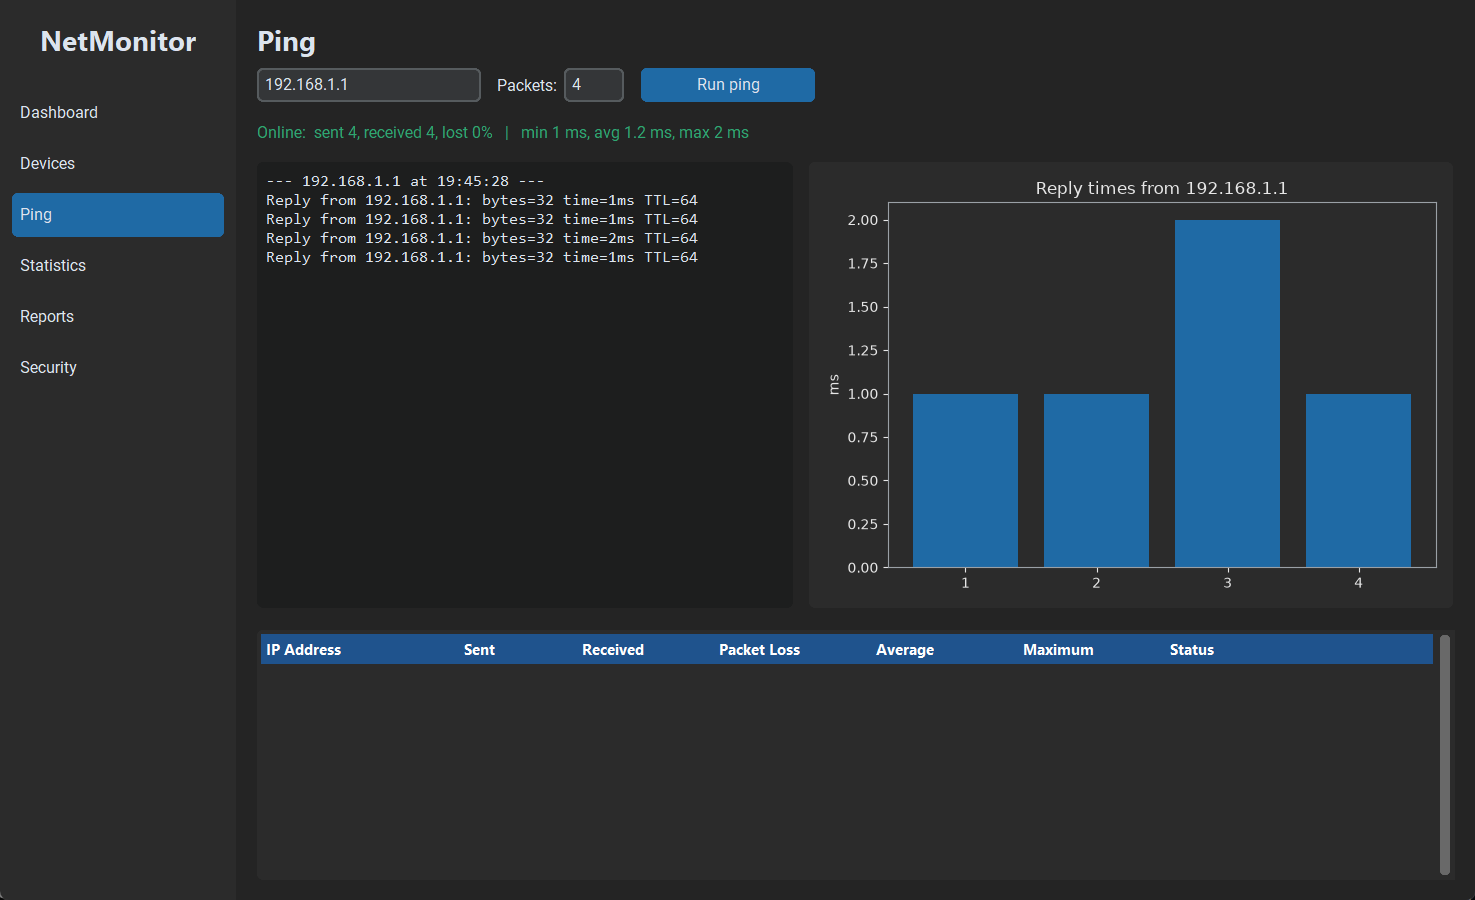
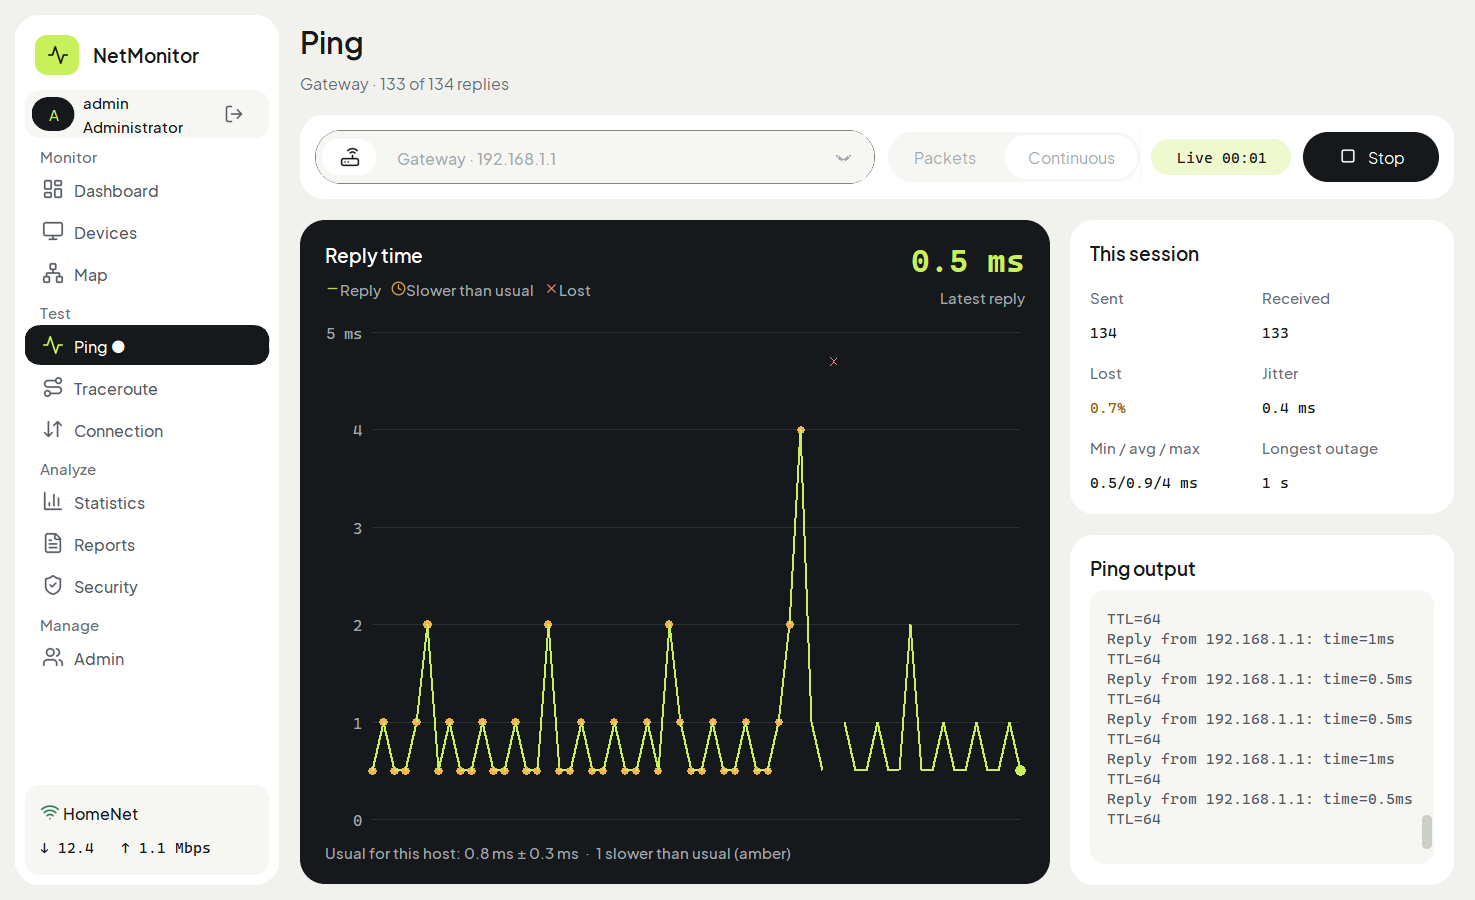
Update NetMonitor README and screenshots

diff --git a/README.md b/README.md
@@ -1,69 +1,71 @@
 # NetMonitor
 
-**Network Monitoring and Performance Analysis System**: a Windows desktop app that finds the devices on your local network, tests them with ping, tracks latency and packet loss, writes a report, and gives basic security advice.
+NetMonitor is a Windows desktop app for monitoring a local network. It discovers devices, measures latency and packet loss, tracks connection health, and exports reports. **Diagnose network** tests this PC, the router, internet access, and DNS, then explains where a problem starts and what to check next.
 
 Final project for CCS 234 (Communications and Networking), West Visayas State University, CICT.
 
-![Devices view after a network scan](Documentation/screenshots/devices_view.png)
+![Devices view with search, status filters, and actions for two selected devices using sample data](Documentation/screenshots/devices_view.png)
 
 ## Features
 
 | | Feature | What it does |
 |---|---|---|
-| 1 | **Network Discovery** | Detects the local IP, subnet mask, network range and gateway, then lists active devices with IP, hostname and MAC address. |
-| 2 | **Connectivity Testing** | Pings one or several devices and shows every reply time, min / average / max, and packet loss. |
-| 3 | **Network Statistics** | Per-device average latency, maximum latency, packet loss and jitter from all stored results, with a history chart. |
-| 4 | **Report Generator** | Writes a dated HTML or CSV report: devices, ping results, performance summary, recommendations. |
-| 5 | **Security Recommendations** | Flags weak connectivity, unreachable hosts, gateway problems and new devices, plus firewall and password reminders. |
+| 1 | **Network Discovery** | Finds devices on the local IPv4 network. Search by name, IP, MAC address or vendor, filter by status, and open a device’s details in the right-hand drawer. **Network details** shows the local IP, subnet mask, address range, and gateway. |
+| 2 | **Connectivity Testing** | Ping one device or a batch. **Continuous** mode charts reply times live and shows packet loss, jitter, and the longest outage. |
+| 3 | **Network Statistics** | See average and maximum latency, packet loss, and jitter across stored results. Select a device to see its history. |
+| 4 | **Report Generator** | Save a network snapshot as HTML, CSV, or PDF. Open saved reports from the **Reports** view. |
+| 5 | **Security Recommendations** | Review findings such as new devices, risky open ports, weak Wi-Fi security, and possible ARP anomalies. |
 
-Also included: a dashboard with a 0 to 100 network health score, and SQLite storage so history survives a restart.
+- **Dashboard** shows a network health score from 0 to 100 and runs the guided diagnosis.
+- **Map** shows device status and logical links to the gateway. Select a device to open its details.
+- **Traceroute** shows the routers between this PC and a target, with probe times and a verdict on where delay starts.
+- **Connection** shows Wi-Fi signal and nearby channels, live upload and download rates, and this PC’s data use for the day.
+- **Watch** periodically checks for devices joining or going offline and records uptime samples for known devices.
 
-![Ping view with reply times and a latency chart](Documentation/screenshots/ping_view.png)
+![Continuous ping with a live latency chart, session statistics, and reply output using sample data](Documentation/screenshots/ping_view.png)
 
 ## Download
 
-Get `NetMonitor-vX.Y.Z-windows.zip` from the [latest release](https://github.com/jstinbrey/network_monitor/releases/latest), unzip it, and run `NetMonitor\NetMonitor.exe`. It needs **Windows 10 or 11** and nothing else: Python is built in.
+Get `NetMonitor-vX.Y.Z-windows.zip` from the [latest release](https://github.com/jstinbrey/network_monitor/releases/latest), unzip it, and run `NetMonitor\NetMonitor.exe`. The release runs on **Windows 10 or 11** and includes Python.
 
-Windows SmartScreen may warn that the app is unrecognised, because it is not signed: choose *More info*, then *Run anyway*. The history and reports are kept in `%LOCALAPPDATA%\NetMonitor`, so a newer version finds them.
+The release is unsigned, so Windows SmartScreen may show a warning. The app keeps its database and reports in `%LOCALAPPDATA%\NetMonitor`, so a newer release can use the same files.
 
 ## Run from source
 
-Requires **Windows 10 or 11** and **Python 3.11+**. Administrator rights are not needed.
+Use **Windows 10 or 11** and **Python 3.13**, the version used to build the Windows release. You can run the app under a standard Windows account.
 
-**Easiest:** double-click `SourceCode\run.bat`. The first run creates a virtual environment and installs the packages, then opens the app.
+Double-click `SourceCode\run.bat` to create a virtual environment, install the packages, and open NetMonitor. Later launches reuse that environment.
 
-**Manual**, from PowerShell inside `SourceCode`:
+For manual setup, run these commands in PowerShell from the project root.
 
 ```powershell
+cd SourceCode
 python -m venv .venv
-.\.venv\Scripts\Activate.ps1
-pip install -r requirements.txt
-python main.py
+.\.venv\Scripts\python.exe -m pip install -r requirements.txt
+.\.venv\Scripts\python.exe main.py
 ```
 
-If PowerShell blocks `Activate.ps1`, run `Set-ExecutionPolicy -Scope CurrentUser RemoteSigned` once.
+The source build saves its database in `SourceCode/data/netmonitor.db` and generated reports in `SourceCode/output/`.
 
 ## Using it
 
-```mermaid
-flowchart LR
-    A[Scan network] --> B[Ping devices]
-    B --> C[View statistics]
-    C --> D[Generate report]
-    C --> E[Read security<br>recommendations]
-```
+NetMonitor opens as a guest. For your first scan, click **Admin sign in** in the sidebar and create the first administrator account. Use a password of at least eight characters that differs from the username. This account is managed inside NetMonitor.
 
-1. **Devices**: click *Scan network* (about 10 to 15 seconds).
-2. Select devices and click *Ping selected*, or double-click one device.
-3. **Statistics**: click *Refresh all* to ping every known device.
-4. **Reports**: click *Generate report*.
-5. **Security**: read the recommendations, most severe first.
+1. In **Devices**, click **Scan network**. Use the search and status filters to narrow the list.
+2. Click a device row to open its details, or select several checkboxes and click **Ping** in the selection bar. The drawer shows recent tests, uptime when available, and actions for **Ping**, **Continuous ping**, and **Traceroute**.
+3. In **Dashboard**, click **Diagnose network** to check the connection. In **Statistics**, click **Re-test devices** to ping every listed device and update the stored results.
+4. Review findings in **Security**. In **Reports**, select a format, click **Generate report**, then click **Open** when the file is ready.
 
-An administrator can also check a device for open ports from its panel (*Check ports*). Only check devices on a network you own or administer.
+| Access | Available actions |
+|---|---|
+| Guest or signed-in User | View stored devices and history, run ping, traceroute, and diagnosis, and generate reports. |
+| Administrator | All of the above, plus scan the network, check ports, rename devices, mark devices as known, and turn on **Watch**. Use **Admin** to manage accounts, set bandwidth limits and the watch interval, or clear the current network’s history. |
+
+If **Connection** asks for Location access, search Windows Settings for **Location** and allow desktop apps to access it to show Wi-Fi details.
 
 ## How it works
 
-The app has three layers. The interface never runs network code itself; it calls the services layer in a background thread, so the window stays responsive during a scan.
+The Tkinter and CustomTkinter interface calls the services layer. Network operations such as scans and ping run on background threads so the window stays responsive, and SQLite stores the results locally. NetMonitor identifies each network by its IPv4 range and gateway MAC address when available.
 
 ![Application architecture](Documentation/diagrams/architecture.png)
 
@@ -73,20 +75,20 @@ The app has three layers. The interface never runs network code itself; it calls
 | `core/discovery.py` | 1 | ICMP ping sweep, ARP table, reverse DNS |
 | `core/pinger.py` | 2 | ICMP echo request and reply, round-trip time, packet loss |
 | `core/statistics.py` | 3 | Latency, jitter, packet loss |
-| `core/report_builder.py` | 4 | Report output (HTML, CSV) |
+| `core/report_builder.py` | 4 | Report output (HTML, CSV, PDF) |
 | `core/advisor.py` | 5 | Connectivity and security rules |
 
-A device that ignores ping but still answers ARP is shown as **No ICMP reply (host up)** instead of offline. This is common for Windows PCs, whose firewall drops ping by default.
+**Up, no ping reply** means the device was seen through ARP, but it did not answer ICMP echo requests. Its firewall may block ping.
 
 ## Tests
 
-From `SourceCode`, with the virtual environment active:
+Run the tests from `SourceCode` after setup.
 
 ```powershell
-pytest -v
+.\.venv\Scripts\python.exe -m pytest -v
 ```
 
-The tests cover address and gateway detection, ping and ARP parsing, statistics, storage, report generation and the recommendation rules. They do not need a network connection.
+The suite covers address and gateway detection, ping and ARP parsing, statistics, storage, report generation, recommendation rules, and keyboard focus. It uses fixtures for network outputs.
 
 ## Project layout
 
@@ -99,8 +101,9 @@ SourceCode/
   netmonitor/
     core/           networking logic (one module per feature)
     gui/            window, views and widgets
-    services.py     the only module the interface calls
+    services.py     operations exposed to the interface
     store.py        SQLite storage
+    resources/      theme, fonts, icons and IEEE MAC vendor registry (oui.csv)
     templates/      HTML report template
   tests/            pytest suite
 Documentation/      progress report, diagrams, screenshots
@@ -108,26 +111,27 @@ Documentation/      progress report, diagrams, screenshots
 
 ## Making a release
 
-Versions are `0.<phase>.<fix>` while the build plan runs, and `1.0.0` is the submitted build. The number lives in one place, `VERSION` in `SourceCode/netmonitor/config.py`, and shows in the title bar.
+Versions are `0.<phase>.<fix>` during development, with `1.0.0` reserved for the submitted build. `VERSION` in `SourceCode/netmonitor/config.py` sets the version shown in the title bar.
 
-1. Set `VERSION` (for example `"0.7.0"`), commit, and push.
-2. Tag that commit and push the tag:
+1. Set `VERSION`, commit, and push.
+2. Replace `X.Y.Z` with the configured version, then tag the commit and push the tag.
 
    ```powershell
-   git tag -a v0.7.0 -m "NetMonitor 0.7.0"
-   git push origin v0.7.0
+   git tag -a vX.Y.Z -m "NetMonitor X.Y.Z"
+   git push origin vX.Y.Z
    ```
 
-3. GitHub Actions (`.github/workflows/release.yml`) checks that the tag matches `VERSION`, runs the tests, builds `NetMonitor.exe` with PyInstaller, and publishes it on the Releases page (about 5 minutes; progress is on the Actions tab).
+3. GitHub Actions (`.github/workflows/release.yml`) checks that the tag matches `VERSION`, runs the tests, builds `NetMonitor.exe` with PyInstaller, and publishes the ZIP on the Releases page.
 
-A tag with a suffix, such as `v0.7.0-rc.1`, makes a pre-release: use it to try a build before the real one.
+A tag with a suffix such as `-rc.1` publishes a pre-release.
 
 ## Known limitations
 
-- **Windows only.** The app reads the output of the Windows `ping`, `arp` and `route` commands.
+- **Windows only.** The app uses Windows networking commands. Wi-Fi details depend on English `netsh` output.
 - **IPv4 only**, and a scan covers at most 254 addresses (a /24).
 - **Hostnames are not always available.** Many phones show as "Unknown".
-- **Some networks hide devices from each other** (school or public Wi-Fi), so a scan there may find only the gateway.
-- **Two networks with the same address range share one device list.** To start clean, close the app and delete `SourceCode\data\netmonitor.db`.
+- **Device discovery is limited by the network.** Wi-Fi client isolation can prevent discovery of other devices.
+- **Bandwidth measures this PC’s traffic while NetMonitor is running.** The map shows logical links between devices and the gateway.
+- **Accounts gate actions in the app.** Windows file permissions control access to the local database and exported reports.
 
-Scan only networks that you own or are allowed to test.
+Scan, check ports, and use Watch only on networks you own or are authorized to administer.
